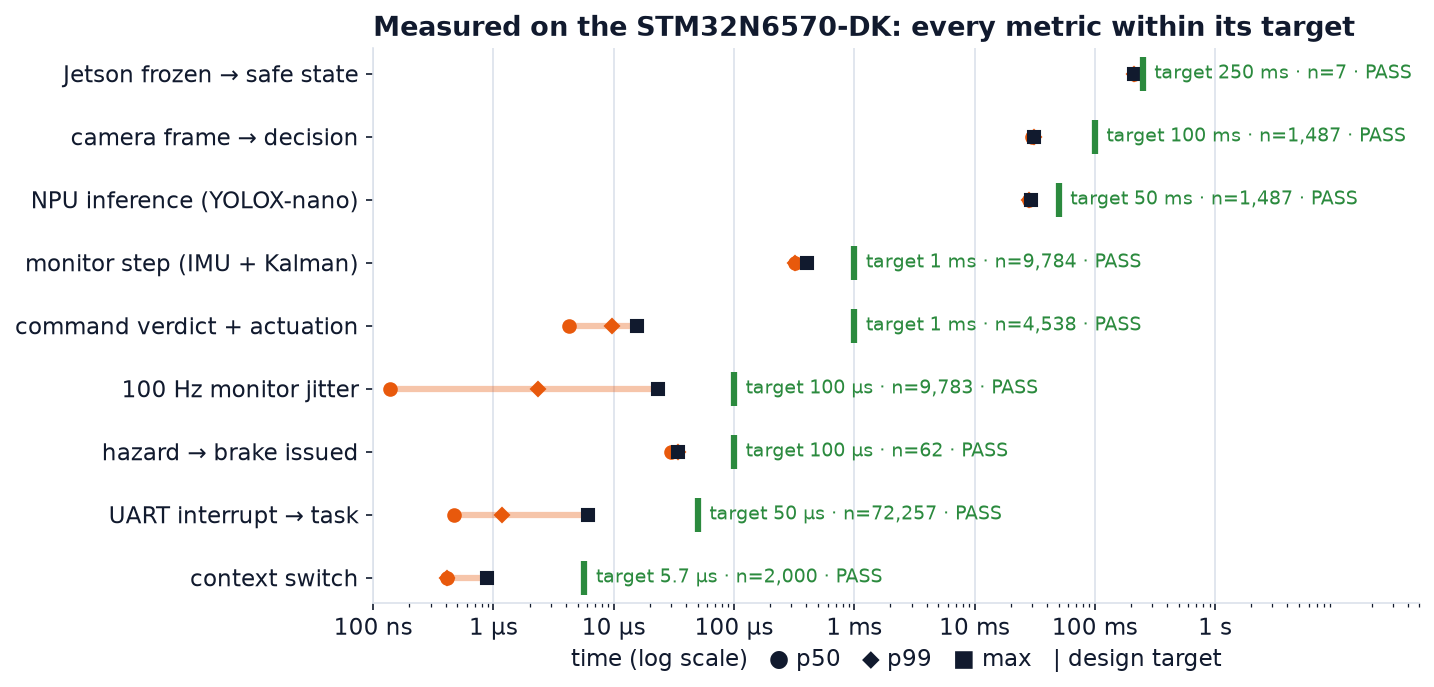
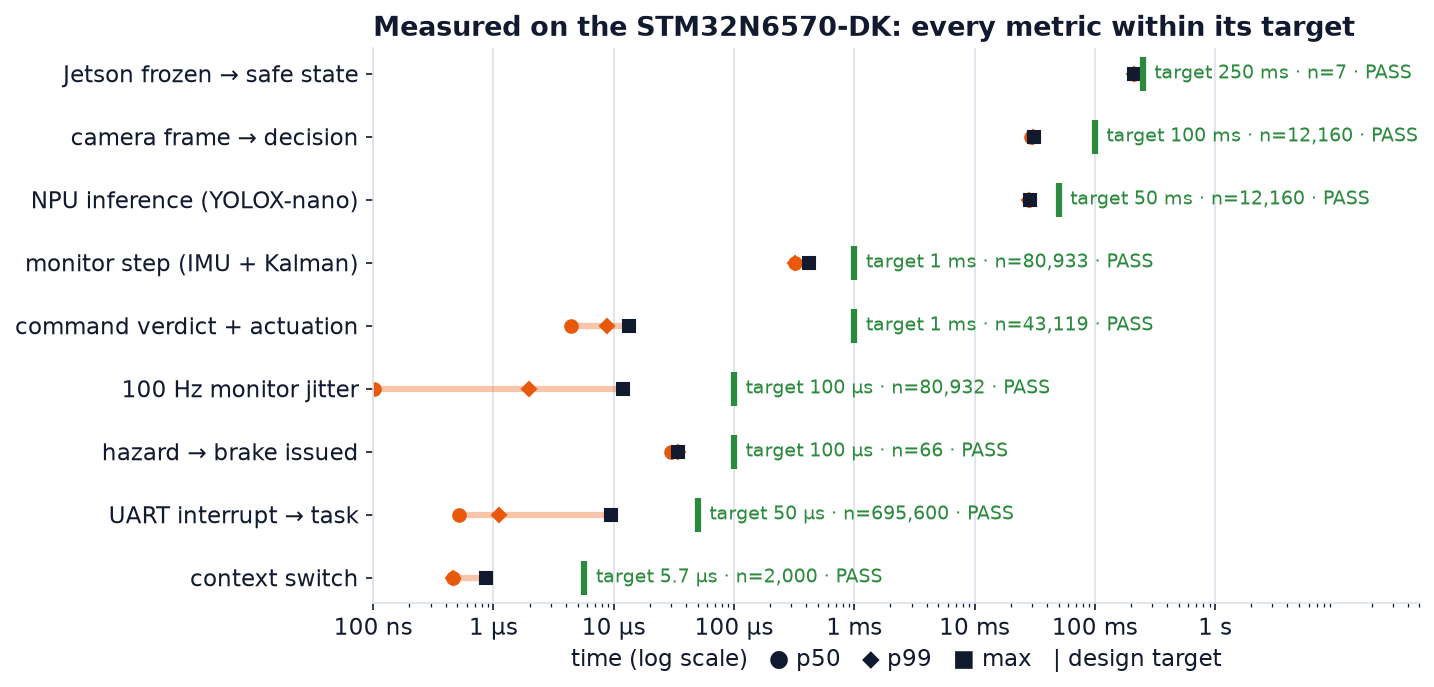
Add LICENSE, cable colour map figure, and sync docs with the fixed firmware
- LICENSE: MIT for the team's code, with the third-party licenses named
  (T-License 2.2 for micro T-Kernel, BSD-3/Apache-2.0/SLA0044 for ST and Arm)
- hw/photos/pinmap.svg: cable colour map (green/white/black to the USB-TTL,
  red/brown/black to the VESC), linked from hw/README.md and hw/wiring.md
- All measurements now come from run_J, the run recorded with the current
  flashed firmware: jitter 11.9 us over 80,932 periods (99.6 % below Linux
  under load), interrupt to task 9.5 us over 695,600, command verdict 13.4 us
  over 43,119, hazard to brake 34 us over 66 events, safety CPU 3.2 %
- Documents follow the code: report task (priority 25) in the task tables,
  evaluation guide rewritten around hibiki_eval.py --watch and hibiki.sh
- Remove the price and photo TODO placeholders

diff --git a/sw/docs/evaluation_guide.md b/sw/docs/evaluation_guide.md
@@ -1,15 +1,26 @@
 # Evaluation Guide
 
-What to run, what to look at, and what counts as a pass. Every check uses only the shipped board and a PC terminal. Checks marked **[host]** also need a 3.3 V USB-TTL (included) and `sw/tools/pc_host.py`. Checks marked **[car]** need the vehicle. They are shown in the demo video, and `run_demo.sh` reproduces them.
+What to run, what to look at, and what counts as a pass. The fastest path is the runbook in the [README](../../README.md): one terminal watches the STM32 over USB (`python3 sw/examples/hibiki_eval.py --watch`), a second one drives the car from the Jetson over ssh (`~/guardian/hibiki.sh start 0.3` → `arm`). That script judges every check below automatically and writes `sw/examples/out/<date_time>/report.md`.
 
-Setup for all checks: [operation_procedure.md](operation_procedure.md), part A (BOOT0/BOOT1 left, ST-LINK USB-C to the PC, terminal at 115200 8N1 on the ST-LINK COM port). Keep the terminal open from power-on so the boot lines are captured. Saving the terminal output to a file lets you compare it with `sw/results/`.
+Three ways to run the checks:
+
+| How | Command | Covers |
+|---|---|---|
+| The car (normal) | `hibiki_eval.py --watch` on the laptop + `hibiki.sh` on the Jetson | everything except the four command-injection faults |
+| The board alone on a desk | `hibiki_eval.py` (guided prompts) | RTOS metrics, person stop, MPU, IMU |
+| Board + a 3.3 V USB-TTL instead of the Jetson | `hibiki_eval.py --host <port>` | adds unsafe / replayed / corrupted commands and the watchdog |
+| No hardware at all | `hibiki_eval.py --offline sw/results/raw_logs/<run>/stm32.log` | re-judges our recorded runs |
+
+The checks below are the same ones the script applies; each row names the console line it is judged from, so they can also be read by eye in any serial terminal (115200 8N1 on the ST-LINK port).
+
+Setup for the manual route: BOOT0 and BOOT1 both left, ST-LINK USB-C to the PC, terminal open from power-on so the boot lines are captured.
 
 ## Mode DEMO_NORMAL: μT-Kernel 3.0 and the task set
 
 | # | Do | Expect | Pass if |
 |---|---|---|---|
-| E1 | Power on | `microT-Kernel Version 3.00`, then the `[rtos]` task table (gate 8, imu 10, vision 20, log 30) | both lines present |
-| E2 | Wait 10 s | `[metric] ctx_switch: n=2000 … max … -> PASS` | max < 5.7 µs (we measured 0.88 µs) |
+| E1 | Power on | `microT-Kernel Version 3.00`, then the `[rtos]` task table (gate 8, imu 10, vision 20, report 25, log 30) | both lines present |
+| E2 | Wait 10 s | `[metric] ctx_switch: n=2000 mean 444ns p50 460ns p95 460ns p99 460ns max 872ns | target < 5700ns over 0 -> PASS` | max < 5.7 µs (we measured 0.88 µs) |
 | E3 | Watch 30 s | `[vision] 15.0 fps \| NPU 28… us`, `isp_err 0`; LCD shows the camera | 14–15 fps, NPU < 50 ms |
 | E4 | Watch the `[perf] cpu` line | CPU share per task, e.g. `idle 48 % gate 0.1 % imu 3.2 % vision 48 %` | gate + imu ≈ 3 % while the NPU runs |
 | E5 | Watch the `[metric] monitor_jitter` line | 100 Hz safety monitor jitter while the NPU runs at full load | max < 100 µs (we measured ≤ 23 µs) |
@@ -40,22 +51,22 @@ Setup for all checks: [operation_procedure.md](operation_procedure.md), part A (
 ## Mode DEMO_FAULT on Linux, for comparison (optional, any Linux PC)
 
 `gcc -O2 -o jitter_probe sw/jetson_stack/bench/jitter_probe.c && ./jitter_probe abs 20`, then again under `stress --cpu $(nproc) --io 2 --vm 2`.
-On our Jetson Orin Nano: max period error 221 µs idle and 445 µs (absolute sleep) or 3 888 µs (relative sleep) under load. The STM32 monitor under full NPU load: ≤ 23 µs.
+On our Jetson Orin Nano: max period error 221 µs idle and 445 µs (absolute sleep) or 3 888 µs (relative sleep) under load. The STM32 monitor with the NPU at full load and the Jetson commanding at 100 Hz: 11.9 µs over 80 932 periods.
 
 ## The summary table
 
 After a few minutes the firmware prints, every 10 s:
 
 ```
-[metric] ctx_switch: n=2000 mean 415ns p50 412ns p95 412ns p99 412ns max 878ns | target < 5700ns over 0 -> PASS
-[metric] irq_to_task: n=72257 mean 512ns ... max 6077ns | target < 50.0us over 0 -> PASS
-[metric] gate_cmd_verdict: ... max 15.5us | target < 1000.0us over 0 -> PASS
-[metric] hazard_to_brake: n=6 mean 30.5us ... max 31.0us | target < 100.0us over 0 -> PASS
+[metric] ctx_switch: n=2000 mean 444ns p50 460ns p95 460ns p99 460ns max 872ns | target < 5700ns over 0 -> PASS
+[metric] irq_to_task: n=695600 mean 546ns p50 520ns p95 680ns p99 1104ns max 9501ns | target < 50.0us over 0 -> PASS
+[metric] gate_cmd_verdict: n=43119 mean 5479ns p50 4416ns p95 8576ns p99 8832ns max 13.4us | target < 1000.0us over 0 -> PASS
+[metric] hazard_to_brake: n=66 mean 27.8us p50 30us p95 33us p99 33.3us max 34us | target < 100.0us over 0 -> PASS
 [metric] frame_to_decision: ... max 31.4ms | target < 100.0ms over 0 -> PASS
 [metric] npu_inference: ... max 29.2ms | target < 50.0ms over 0 -> PASS
-[metric] monitor_jitter: n=9783 ... max 23.2us | target < 100.0us over 0 -> PASS
-[metric] monitor_step: ... max 400.9us | target < 1000.0us over 0 -> PASS
+[metric] monitor_jitter: n=80932 mean 235ns p50 101ns p95 840ns p99 1968ns max 11.9us | target < 100.0us over 0 -> PASS
+[metric] monitor_step: n=80933 mean 322.8us p50 323.5us p95 323.5us p99 323.5us max 422.1us | target < 1000.0us over 0 -> PASS
 [metric] link_loss_to_safe: n=1 ... max 210.0ms | target < 250.0ms over 0 -> PASS
 ```
 
-`irq_to_task`, `gate_cmd_verdict` and `link_loss_to_safe` need a host (Jetson or `pc_host.py`). `hazard_to_brake` needs a person or an IMU event. Our reference runs are in `sw/results/`.
+`irq_to_task`, `gate_cmd_verdict` and `link_loss_to_safe` need a host sending commands (the Jetson on the car, or `pc_host.py` on a USB-TTL). `hazard_to_brake` needs a person or an IMU event. Our reference runs are in `sw/results/`.

diff --git a/README.md b/README.md
@@ -170,20 +170,18 @@ flowchart LR
   W --> K["Buck converter 5 V 3 A"] --> S["STM32N6570-DK<br/>USB-C CN6 · never powered from the Jetson's USB"]
 ```
 
-<!-- TODO photos: demo GIF (person steps in -> car stops), STM32N6570-DK LCD close-up, desk evaluation kit -->
-
 ## Measured on the board (not targets)
 
 | Metric | Design target | Measured (max, n) |
 |---|---|---|
-| Context switch (`tk_wup_tsk` → task running) | < 5.7 µs | **0.88 µs** (mean 0.42 µs, n = 2000) |
-| Hazard detected → brake issued | < 100 µs | **34 µs** (person stops: mean 30.1 µs; IMU tilts: 1 µs; n = 62) |
-| USART interrupt → gatekeeper task | < 50 µs | **6.1 µs** (p99 1.2 µs, n = 72 257) |
-| Jetson command → verdict + actuation | < 1 ms | **15.5 µs** (p99 9.6 µs, n = 4 538) |
-| 100 Hz monitor period jitter (NPU at full load) | 42 % below Linux | **12.5 µs** over 141 054 periods (23.5 min, p99 2.9 µs, 0 over 100 µs) with the Jetson commanding at 100 Hz; 23 µs with the Jetson at 100 % CPU. Linux on the Jetson under load: 3.3–3.9 ms (≥ 99.3 % lower). See [Fixed issue](#fixed-issue-rare-monitor-jitter-spikes) |
+| Context switch (`tk_wup_tsk` → task running) | < 5.7 µs | **0.87 µs** (mean 0.44 µs, n = 2 000) |
+| Hazard detected → brake issued | < 100 µs | **34 µs** (61 person stops: mean 30 µs; 5 IMU tilts: 1 µs; n = 66) |
+| USART interrupt → gatekeeper task | < 50 µs | **9.5 µs** (p99 1.1 µs, n = 695 600) |
+| Jetson command → verdict + actuation | < 1 ms | **13.4 µs** (p99 8.8 µs, n = 43 119) |
+| 100 Hz monitor period jitter (NPU at full load) | 42 % below Linux | **11.9 µs** over 80 932 periods with the Jetson commanding at 100 Hz (p99 2.0 µs, 0 over 100 µs). Linux on the Jetson under load: 3.3–3.9 ms (**99.6 % lower**). See [Fixed issue](#fixed-issue-rare-monitor-jitter-spikes) |
 | Jetson frozen → car in safe state | < 250 ms | **210 ms** (n = 7, watchdog 200 ms) |
 | Camera frame → person decision | < 100 ms | 31.4 ms (NPU 28.5 ms) |
-| CPU used by the safety tasks (gate + imu) | < 3 % | 3.4 % |
+| CPU used by the safety tasks (gate + imu) | < 3 % | 3.2 % |
 
 All numbers are printed by the firmware itself (DWT cycle counter, 1.25 ns resolution). How they were measured is in [sw/docs/test_report.md](sw/docs/test_report.md). Raw logs and CSV files are in [sw/results/](sw/results/). The graphs below are regenerated from those logs by [`sw/results/make_figures.py`](sw/results/make_figures.py).
 
@@ -193,7 +191,7 @@ All numbers are printed by the firmware itself (DWT cycle counter, 1.25 ns resol
 
 ![100 Hz loop jitter: μT-Kernel vs Linux](sw/results/figures/jitter_rtos_vs_linux.png)
 
-![57 real person stops: AI part vs RTOS part](sw/results/figures/person_stop_latency.png)
+![61 real person stops: AI part vs RTOS part](sw/results/figures/person_stop_latency.png)
 
 ![Every hazard ended in the safe state](sw/results/figures/faults_to_safe_state.png)
 
@@ -220,7 +218,7 @@ All numbers are printed by the firmware itself (DWT cycle counter, 1.25 ns resol
 
 ## Fixed issue: rare monitor jitter spikes
 
-The first long runs on the car (`sw/results/raw_logs/run_F…run_I`, 121 034 monitor periods) had 20 periods (0.017 %) that started 0.1–0.82 ms late, and a longest monitor step of 1.14 ms. No 10 ms deadline was missed. Cause: every 10 s the `gate` task (priority 8, above the `imu` monitor at 10) computed the percentile table and formatted the console report itself, a 0.5–0.8 ms burst. The reports now come from a separate `report` task at priority 25, below every safety task. With that firmware (`run_J`, and the flashed image in `sw/binaries/`): **0 of 141 054 periods over 100 µs, max 12.5 µs, longest step 434 µs**. The older logs are kept unchanged, so `hibiki_eval.py --offline` on `run_F…run_I` still shows the two FAIL lines.
+The first long runs on the car (`sw/results/raw_logs/run_F…run_I`, 121 034 monitor periods) had 20 periods (0.017 %) that started 0.1–0.82 ms late, and a longest monitor step of 1.14 ms. No 10 ms deadline was missed. Cause: every 10 s the `gate` task (priority 8, above the `imu` monitor at 10) computed the percentile table and formatted the console report itself, a 0.5–0.8 ms burst. The reports now come from a separate `report` task at priority 25, below every safety task. With that firmware (`run_J`, and the flashed image in `sw/binaries/`): **0 of 80 932 periods over 100 µs, max 11.9 µs, longest step 422 µs**. The older logs are kept unchanged, so `hibiki_eval.py --offline` on `run_F…run_I` still shows the two FAIL lines.
 
 ## Repository layout
 

diff --git a/hw/README.md b/hw/README.md
@@ -8,26 +8,32 @@ The Jetson plans the path, and the STM32N6570-DK running μT-Kernel 3.0 checks e
 
 Numbers match the photo above.
 
-| # | Part | Qty | Role in HIBIKI | Link / interface | Needed for evaluation | Price / source |
-|---|---|---|---|---|---|---|
-| 4 | **STMicroelectronics STM32N6570-DK** | 1 | Safety gatekeeper on **μT-Kernel 3.0**: command envelope, 200 ms watchdog, NPU person stop, IMU monitor, MPU isolation; LCD shows the camera | — | **yes (core)** | provided by the contest |
-| 5 | Camera module MB1854 (IMX335 5 MP + VL53L5 8×8 ToF + IMU) | 1 | STM32-side perception, independent of the Jetson | CSI-2 FFC, I2C1 | **yes** | included with the DK |
-| 3 | USB-TTL adapter PL2303, 3.3 V | 1 | Jetson ↔ STM32 command link (15-byte CMD / 12-byte VERDICT) | USART2, 115200 8N1, D0/D1 | yes (or any 3.3 V USB-TTL with `pc_host.py`) | TODO |
-| 11 | USB-C cable / 5 V 3 A buck converter (6–24 V → 5 V) | 1 | STM32 power via the ST-LINK USB-C port (CN6) | 5 V | yes (USB-C cable on a desk) | TODO |
-| 6 | VESC COMM harness (JST-GH) | 1 | STM32 → VESC: red D5 → RX, brown A5 ← TX, black GND | USART3, 38400 | car only | TODO |
-| 7 | VESC 6 MkVI HP | 1 | Motor controller: BLDC drive + steering servo. Only the STM32 commands it | UART 38400 | car only | TODO |
-| 2 | NVIDIA Jetson Orin Nano | 1 | Main AI computer: ROS 2 Humble, gap_follower path planning. No direct path to the actuators | USB-TTL | car only | TODO |
-| 1 | Hokuyo UST-10LX 2D LiDAR | 1 | Jetson's main sensor (40 Hz scans) | Ethernet 192.168.0.10 | car only | TODO |
-| 8 | 1/10 4WD RC chassis (BLDC motor, steering servo) | 1 | Vehicle: wheelbase 0.32 m, steering capped at ±17.5° by the STM32 | — | car only | TODO |
-| 9 | 4S LiPo battery 14.8 V, XT60 | 1 | Main power | XT60 | car only | TODO |
-| 10 | WAGO 221 splice connectors | 2 | Battery +/− to the Jetson, LiDAR and 5 V converter | — | car only | TODO |
-| 12 | USB hub + Wi-Fi adapter | 1 | SSH / monitoring of the Jetson (not in the control path) | USB | no | TODO |
-| 13 | STMod+ fan-out board | 1 | Comes with the DK; not used | — | no | included with the DK |
+| # | Part | Qty | Role in HIBIKI | Link / interface | Needed for evaluation |
+|---|---|---|---|---|---|
+| 4 | **STMicroelectronics STM32N6570-DK** | 1 | Safety gatekeeper on **μT-Kernel 3.0**: command envelope, 200 ms watchdog, NPU person stop, IMU monitor, MPU isolation; LCD shows the camera | — | **yes (core)** |
+| 5 | Camera module MB1854 (IMX335 5 MP + VL53L5 8×8 ToF + IMU) | 1 | STM32-side perception, independent of the Jetson | CSI-2 FFC, I2C1 | **yes** |
+| 3 | USB-TTL adapter PL2303, 3.3 V | 1 | Jetson ↔ STM32 command link (15-byte CMD / 12-byte VERDICT) | USART2, 115200 8N1, D0/D1 | yes (or any 3.3 V USB-TTL with `pc_host.py`) |
+| 11 | USB-C cable / 5 V 3 A buck converter (6–24 V → 5 V) | 1 | STM32 power via the ST-LINK USB-C port (CN6) | 5 V | yes (USB-C cable on a desk) |
+| 6 | VESC COMM harness (JST-GH) | 1 | STM32 → VESC: red D5 → RX, brown A5 ← TX, black GND | USART3, 38400 | car only |
+| 7 | VESC 6 MkVI HP | 1 | Motor controller: BLDC drive + steering servo. Only the STM32 commands it | UART 38400 | car only |
+| 2 | NVIDIA Jetson Orin Nano | 1 | Main AI computer: ROS 2 Humble, gap_follower path planning. No direct path to the actuators | USB-TTL | car only |
+| 1 | Hokuyo UST-10LX 2D LiDAR | 1 | Jetson's main sensor (40 Hz scans) | Ethernet 192.168.0.10 | car only |
+| 8 | 1/10 4WD RC chassis (BLDC motor, steering servo) | 1 | Vehicle: wheelbase 0.32 m, steering capped at ±17.5° by the STM32 | — | car only |
+| 9 | 4S LiPo battery 14.8 V, XT60 | 1 | Main power | XT60 | car only |
+| 10 | WAGO 221 splice connectors | 2 | Battery +/− to the Jetson, LiDAR and 5 V converter | — | car only |
+| 12 | USB hub + Wi-Fi adapter | 1 | SSH / monitoring of the Jetson (not in the control path) | USB | no |
+| 13 | STMod+ fan-out board | 1 | Comes with the DK; not used | — | no |
 
 Not used (tried and dropped): Hokuyo UST-10LN obstacle sensor, BME280 environment sensor, STL-27L LiDAR, microSD logging.
+
+## Cable colour map
+
+![Cable colour map: green D0, white D1, black GND to the USB-TTL; red D5, brown A5, black GND to the VESC](photos/pinmap.svg)
+
+Pin-by-pin tables, baud rates and the board switches: [wiring.md](wiring.md).
 
 ## Photos
 
 | | |
 |---|---|
-| ![top view](photos/vehicle_top.jpg) | TODO: STM32N6570-DK close-up, camera module, wiring close-ups, desk evaluation kit |
+| ![the car from above](photos/vehicle_top.jpg) | ![numbered parts](photos/vehicle_bom.png) |

diff --git a/sw/docs/operation_manual.md b/sw/docs/operation_manual.md
@@ -42,9 +42,21 @@ Live camera image with an overlay:
 | `[vision] 15.0 fps \| NPU 28515 us \| persons 1 (tallest h 42%) \| clear/HAZARD` | 1 s | vision pipeline: frame rate, NPU time, detections, hazard state, `isp_err` = camera I2C errors |
 | `[imu] roll pitch yaw a_h \| 100 Hz period … jitter …` | 5 s | IMU attitude (Kalman), monitor period and jitter, step time |
 | `[perf] cpu idle … gate … imu … vision …` | 5 s | CPU share per task (from the dispatcher hook) and task switches per second |
-| `[metric] name: n mean p50 p95 p99 max \| target < … over N -> PASS/FAIL` | 10 s | cumulative timing statistics since boot against the design targets |
+| `[metric] name: n mean p50 p95 p99 max \| target < … over N -> PASS/FAIL` | 10 s | cumulative timing statistics since boot against the design targets (printed by the `report` task, priority 25, so reporting never delays a safety task) |
 | `[stack] gate 1384/4096 B …` | 10 s | stack high-water mark per task |
 | `[gate] STOP …`, `[gate] SLOW …`, `[fault] …` | event | safety events with their latency breakdown |
+
+## Tasks
+
+| Task | Priority | Released by | Deadline | If it fails |
+|---|---|---|---|---|
+| `gate` | 8 | Jetson command (UART interrupt → event flag), hazard kick | 1 ms | 200 ms without a valid command → brake |
+| `imu` | 10 | cyclic handler every 10 ms | 10 ms | tilt / impact → brake |
+| `vision` | 20 | camera frame (≈ 15 fps) | 100 ms | no frame for 500 ms → car held |
+| `report` | 25 | every 1 s | best effort | a late report, nothing else |
+| `log` | 30 | ring buffer not empty | best effort | drops lines and counts them |
+
+The boot log prints this table as `[rtos]` lines.
 
 ## Errors and recovery
 

diff --git a/hw/wiring.md b/hw/wiring.md
@@ -21,6 +21,8 @@ All connections below were checked on the board. Signal levels are 3.3 V.
 
 The car ships with every cable below already connected. Nothing has to be re-wired.
 
+![Cable colour map](photos/pinmap.svg)
+
 **Jetson ↔ STM32 command link:** a PL2303 USB-TTL cable, USB end in the Jetson.
 
 | Wire colour | USB-TTL signal | STM32N6570-DK pin (Arduino header) | MCU pin / function |
